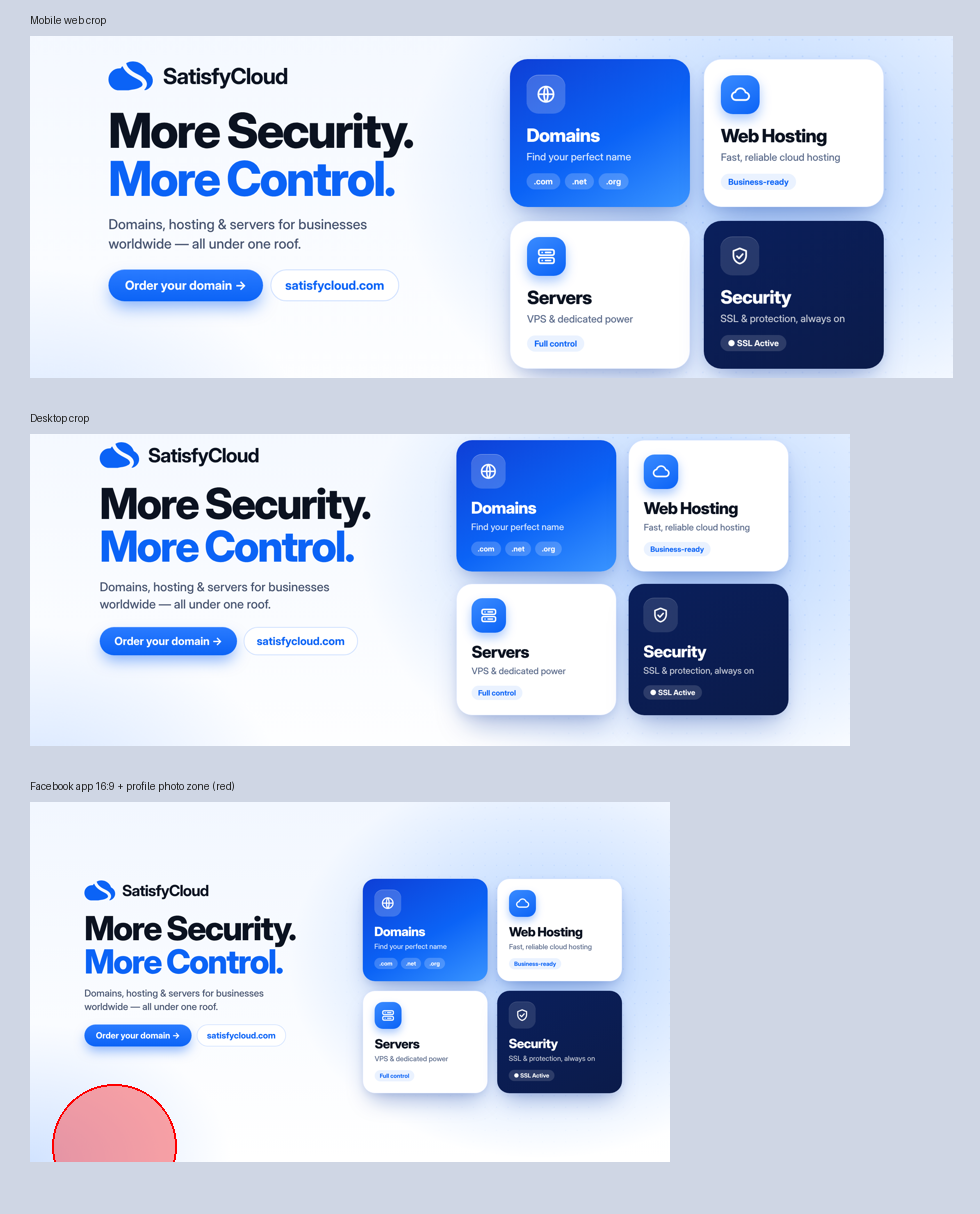
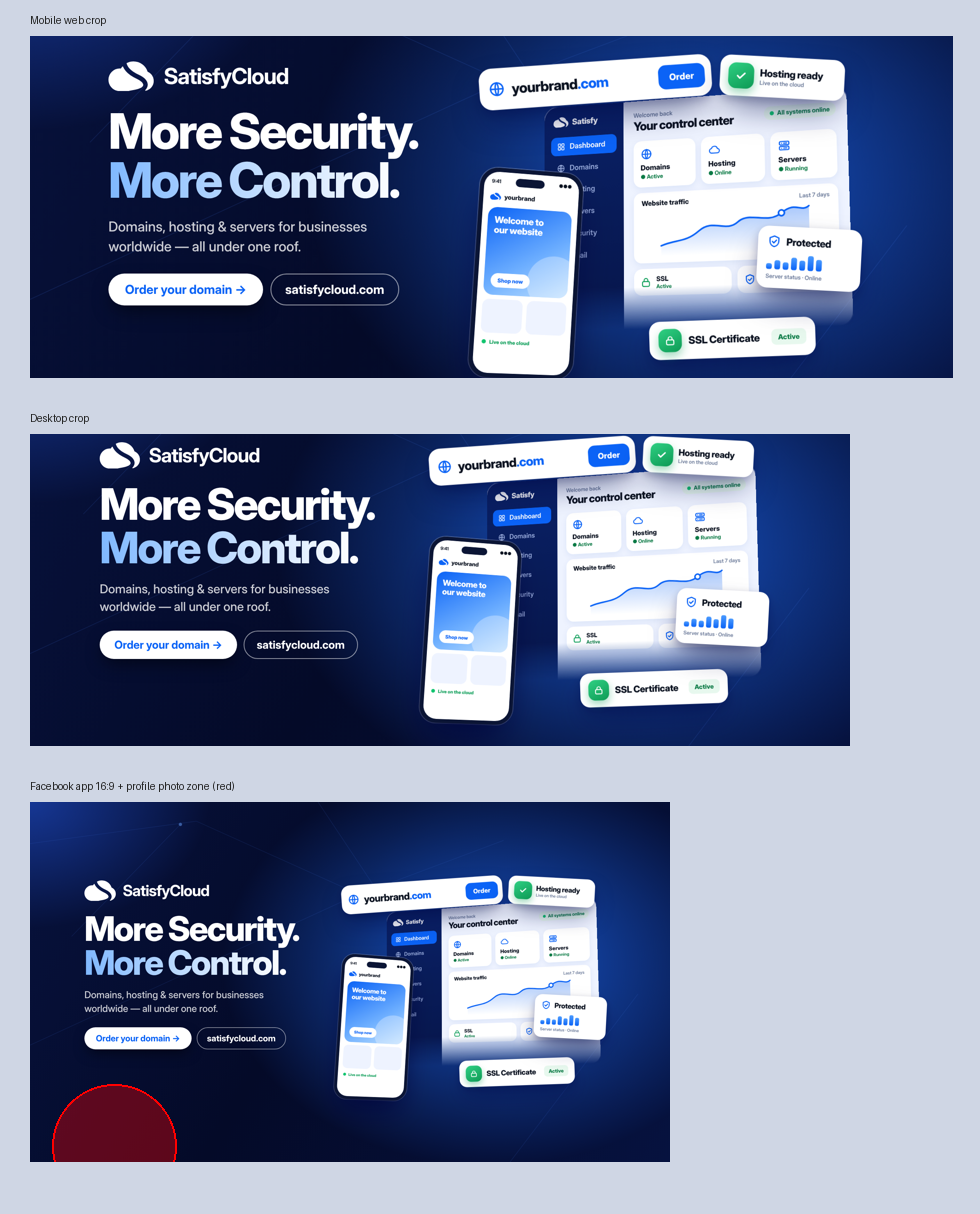
Cover: cinematic dark 3D dashboard scene; post: all-services orbit design
Claude-Session: https://claude.ai/code/session_01HRGDra9WXwvMnTFnzRxiJG

diff --git a/satisfycloud/social/make6.py b/satisfycloud/social/make6.py
@@ -1,0 +1,97 @@
+import re, math
+from playwright.sync_api import sync_playwright
+Dw=open("../dist/svg/mark-tight_white.svg").read(); D=re.search(r' d="([^"]+)"',Dw)[1]
+MW,MH=[int(x) for x in re.search(r'viewBox="0 0 (\d+) (\d+)"',Dw).groups()]
+def mark(w,c="#0B63F6"): return f'<svg viewBox="0 0 {MW} {MH}" width="{w}" height="{w*MH/MW:.1f}"><path fill="{c}" d="{D}"/></svg>'
+def ic(p,c="#fff",s=30,w=2.1): return f'<svg width="{s}" height="{s}" viewBox="0 0 24 24" fill="none" stroke="{c}" stroke-width="{w}" stroke-linecap="round" stroke-linejoin="round">{p}</svg>'
+P=dict(
+globe='<circle cx="12" cy="12" r="9"/><path d="M3 12h18M12 3c3 3.2 3 14.8 0 18M12 3c-3 3.2-3 14.8 0 18"/>',
+server='<rect x="3" y="4" width="18" height="6.5" rx="2"/><rect x="3" y="13.5" width="18" height="6.5" rx="2"/><path d="M7 7.25h.01M7 16.75h.01M11 7.25h6M11 16.75h6"/>',
+shield='<path d="M12 3l7.5 3v5.5c0 4.6-3.1 8.2-7.5 9.5-4.4-1.3-7.5-4.9-7.5-9.5V6z"/><path d="M8.6 12.2l2.5 2.5 4.4-4.9"/>',
+cloud='<path d="M7 18a4.5 4.5 0 0 1-.6-8.96A6 6 0 0 1 18 9.5a4.2 4.2 0 0 1-.5 8.5z"/>',
+lock='<rect x="4.5" y="10.5" width="15" height="10" rx="2.5"/><path d="M8 10.5V8a4 4 0 0 1 8 0v2.5"/>',
+search='<circle cx="11" cy="11" r="6.5"/><path d="M20 20l-4.2-4.2"/>',
+check='<path d="M5 12.5l4.5 4.5L19 7.5"/>',
+db='<ellipse cx="12" cy="6" rx="7.5" ry="3"/><path d="M4.5 6v6c0 1.7 3.4 3 7.5 3s7.5-1.3 7.5-3V6M4.5 12v6c0 1.7 3.4 3 7.5 3s7.5-1.3 7.5-3v-6"/>',
+grid='<rect x="3.5" y="3.5" width="7" height="7" rx="1.5"/><rect x="13.5" y="3.5" width="7" height="7" rx="1.5"/><rect x="3.5" y="13.5" width="7" height="7" rx="1.5"/><rect x="13.5" y="13.5" width="7" height="7" rx="1.5"/>',
+mail='<rect x="3" y="5" width="18" height="14" rx="2.5"/><path d="M3.5 7l8.5 6 8.5-6"/>')
+IC=lambda k,c="#fff",s=30,w=2.1: ic(P[k],c,s,w)
+CSS="""*{margin:0;box-sizing:border-box}body{font-family:'Inter Display','Inter',Arial,sans-serif;color:#0B1220;background:#fff}
+.pill{display:inline-flex;align-items:center;gap:14px;font-weight:700;border-radius:999px}
+.fl{position:absolute;background:#fff;border-radius:26px;box-shadow:0 40px 80px -20px rgba(0,10,70,.65),0 10px 24px rgba(0,10,70,.25);}
+.ibx{width:62px;height:62px;border-radius:19px;display:flex;align-items:center;justify-content:center;background:linear-gradient(150deg,#3a8bff,#0B63F6);box-shadow:0 10px 22px rgba(11,99,246,.4)}
+.ibx.g{background:linear-gradient(150deg,#2fd083,#0e9a55);box-shadow:0 10px 22px rgba(18,160,92,.4)}
+.sb{display:flex;align-items:center;gap:12px;padding:12px 16px;border-radius:14px;font-size:19px;font-weight:600;color:#9db0e0}
+.sb.on{background:#0B63F6;color:#fff}
+.stat{background:#fff;border-radius:20px;padding:18px 18px;box-shadow:0 6px 18px rgba(11,60,160,.08)}
+.dot{display:inline-block;width:10px;height:10px;border-radius:50%;background:#12c46f;margin-right:8px}"""
+def dashboard():
+    chart='<svg viewBox="0 0 360 120" width="100%" height="120"><defs><linearGradient id="ar" x1="0" y1="0" x2="0" y2="1"><stop offset="0" stop-color="#0B63F6" stop-opacity=".35"/><stop offset="1" stop-color="#0B63F6" stop-opacity="0"/></linearGradient></defs><path d="M0 95 C40 80 60 90 95 62 S160 70 190 45 S260 55 295 28 S340 30 360 14 V120 H0z" fill="url(#ar)"/><path d="M0 95 C40 80 60 90 95 62 S160 70 190 45 S260 55 295 28 S340 30 360 14" fill="none" stroke="#0B63F6" stroke-width="4" stroke-linecap="round"/><circle cx="295" cy="28" r="7" fill="#fff" stroke="#0B63F6" stroke-width="4"/></svg>'
+    return f'''<div style="position:absolute;left:0;top:0;width:760px;height:560px;border-radius:34px;overflow:hidden;background:#eef3ff;display:flex;box-shadow:0 60px 120px -20px rgba(0,5,60,.8),0 0 0 2px rgba(255,255,255,.35)">
+ <div style="width:210px;background:linear-gradient(180deg,#0a2166,#06154a);padding:26px 18px;display:flex;flex-direction:column;gap:8px">
+  <div style="display:flex;align-items:center;gap:10px;margin-bottom:18px;padding-left:6px">{mark(40,"#fff")}<span style="color:#fff;font-weight:800;font-size:21px;letter-spacing:-.5px">Satisfy</span></div>
+  <div class="sb on">{IC("grid","#fff",22)}Dashboard</div><div class="sb">{IC("globe","#9db0e0",22)}Domains</div><div class="sb">{IC("cloud","#9db0e0",22)}Hosting</div><div class="sb">{IC("server","#9db0e0",22)}Servers</div><div class="sb">{IC("shield","#9db0e0",22)}Security</div><div class="sb">{IC("mail","#9db0e0",22)}Email</div></div>
+ <div style="flex:1;padding:26px 26px">
+  <div style="display:flex;justify-content:space-between;align-items:center"><div><div style="font-size:15px;color:#6b7a99;font-weight:600">Welcome back</div><div style="font-size:30px;font-weight:800;letter-spacing:-1px">Your control center</div></div><span style="background:#e7f8ee;color:#0b7a45;font-weight:700;font-size:15px;border-radius:999px;padding:7px 14px"><span class="dot"></span>All systems online</span></div>
+  <div style="display:flex;gap:14px;margin-top:20px">
+   <div class="stat" style="flex:1">{IC("globe","#0B63F6",30)}<div style="font-size:18px;font-weight:800;margin-top:8px">Domains</div><div style="font-size:14px;color:#0b7a45;font-weight:700;margin-top:3px">● Active</div></div>
+   <div class="stat" style="flex:1">{IC("cloud","#0B63F6",30)}<div style="font-size:18px;font-weight:800;margin-top:8px">Hosting</div><div style="font-size:14px;color:#0b7a45;font-weight:700;margin-top:3px">● Online</div></div>
+   <div class="stat" style="flex:1">{IC("server","#0B63F6",30)}<div style="font-size:18px;font-weight:800;margin-top:8px">Servers</div><div style="font-size:14px;color:#0b7a45;font-weight:700;margin-top:3px">● Running</div></div></div>
+  <div class="stat" style="margin-top:14px;padding:16px 20px"><div style="display:flex;justify-content:space-between;font-size:17px;font-weight:800"><span>Website traffic</span><span style="color:#6b7a99;font-weight:600;font-size:14px">Last 7 days</span></div>{chart}</div>
+  <div style="display:flex;gap:14px;margin-top:14px"><div class="stat" style="flex:1;display:flex;align-items:center;gap:12px;padding:14px 16px">{IC("lock","#12a05c",28)}<div><div style="font-size:16px;font-weight:800">SSL</div><div style="font-size:13px;color:#0b7a45;font-weight:700">Active</div></div></div><div class="stat" style="flex:1;display:flex;align-items:center;gap:12px;padding:14px 16px">{IC("shield","#0B63F6",28)}<div><div style="font-size:16px;font-weight:800">Firewall</div><div style="font-size:13px;color:#0b7a45;font-weight:700">On</div></div></div></div>
+ </div></div>'''
+def phone():
+    return f'''<div style="position:absolute;left:0;top:0;width:250px;height:500px;border-radius:44px;background:#0b1535;padding:10px;box-shadow:0 50px 90px -20px rgba(0,5,60,.85),0 0 0 2px rgba(255,255,255,.25)">
+<div style="width:100%;height:100%;border-radius:36px;background:#fff;overflow:hidden;position:relative">
+ <div style="height:44px;display:flex;justify-content:space-between;align-items:center;padding:0 18px;font-size:12px;font-weight:700;color:#0B1220"><span>9:41</span><span style="width:70px;height:20px;border-radius:12px;background:#0b1535;display:block;margin-top:2px"></span><span>●●●</span></div>
+ <div style="padding:6px 16px;display:flex;align-items:center;gap:8px;font-size:15px;font-weight:800">{mark(26)}yourbrand</div>
+ <div style="margin:10px 14px;border-radius:22px;height:210px;background:linear-gradient(150deg,#0B63F6,#6fb0ff 60%,#bfe0ff);position:relative;overflow:hidden"><div style="position:absolute;left:16px;top:18px;color:#fff;font-size:22px;font-weight:800;line-height:1.1;letter-spacing:-.5px">Welcome to<br>our website</div><div style="position:absolute;left:16px;bottom:18px;background:#fff;color:#0B63F6;font-weight:800;font-size:13px;padding:9px 16px;border-radius:999px">Shop now</div><div style="position:absolute;right:-30px;bottom:-30px;width:130px;height:130px;border-radius:50%;background:rgba(255,255,255,.3)"></div></div>
+ <div style="margin:0 14px;display:flex;gap:10px"><div style="flex:1;height:80px;border-radius:16px;background:#eef3ff"></div><div style="flex:1;height:80px;border-radius:16px;background:#eef3ff"></div></div>
+ <div style="margin:14px 18px;font-size:12px;color:#12a05c;font-weight:800"><span class="dot"></span>Live on the cloud</div></div></div>'''
+cover=f"""<html><style>{CSS}
+.bg{{position:absolute;inset:0;background:radial-gradient(60% 80% at 72% 45%,rgba(30,110,255,.75) 0%,rgba(10,50,200,0) 70%),radial-gradient(40% 50% at 0% 0%,rgba(40,100,255,.45) 0%,rgba(40,100,255,0) 70%),linear-gradient(120deg,#07123d 0%,#040a28 45%,#06123f 100%)}}
+.lines{{position:absolute;inset:0;opacity:.5}}</style>
+<body style="width:2000px;height:1125px;position:relative;overflow:hidden;background:#040a28"><div class="bg"></div>
+<svg class="lines" width="2000" height="1125" fill="none" stroke="#4d86ff" stroke-opacity=".28" stroke-width="1.6"><path d="M0 130 L520 60 L1120 330"/><path d="M130 420 L470 70"/><path d="M0 760 L1000 300 L1480 120"/><path d="M900 0 L1260 540"/><path d="M1500 1125 L1900 600"/><circle cx="470" cy="70" r="5" fill="#6aa4ff"/><circle cx="1120" cy="330" r="5" fill="#6aa4ff"/></svg>
+<div style="position:absolute;left:170px;top:245px;width:820px;color:#fff">
+ <div style="display:flex;align-items:center;gap:22px">{mark(98,"#fff")}<span style="font-size:48px;font-weight:700;letter-spacing:-1.5px">SatisfyCloud</span></div>
+ <div style="font-size:106px;line-height:1;font-weight:800;letter-spacing:-4.4px;margin-top:34px">More Security.<br><span style="background:linear-gradient(90deg,#7fb8ff,#fff);-webkit-background-clip:text;color:transparent">More Control.</span></div>
+ <div style="font-size:30px;line-height:1.45;color:rgba(255,255,255,.8);margin-top:26px;font-weight:500;max-width:690px">Domains, hosting &amp; servers for businesses worldwide — all under one roof.</div>
+ <div style="margin-top:36px;display:flex;gap:16px"><span class="pill" style="font-size:27px;padding:18px 36px;background:#fff;color:#0B63F6;box-shadow:0 18px 40px -8px rgba(0,0,0,.5)">Order your domain →</span><span class="pill" style="font-size:27px;padding:16px 30px;border:2px solid rgba(255,255,255,.55);color:#fff">satisfycloud.com</span></div>
+</div>
+<div style="position:absolute;left:955px;top:182px;width:960px;height:900px;perspective:2600px;transform:scale(.9);transform-origin:0 0">
+ <div style="position:absolute;left:150px;top:150px;width:760px;height:560px;transform:rotateY(-16deg) rotateX(7deg) rotateZ(-2.5deg);transform-style:preserve-3d;-webkit-mask-image:linear-gradient(180deg,#000 0%,#000 82%,transparent 100%);mask-image:linear-gradient(180deg,#000 0%,#000 82%,transparent 100%)">{dashboard()}</div>
+ <div style="position:absolute;left:10px;top:330px;width:250px;height:500px;transform:rotateY(14deg) rotateZ(4deg) rotateX(4deg)">{phone()}</div>
+ <div class="fl" style="left:20px;top:70px;width:560px;height:100px;border-radius:30px;display:flex;align-items:center;padding:0 16px 0 22px;gap:16px;transform:rotate(-4deg)">{IC("globe","#0B63F6",40)}<div style="flex:1;font-size:34px;font-weight:800;letter-spacing:-1px">yourbrand<span style="color:#0B63F6">.com</span></div><span style="background:#0B63F6;color:#fff;font-weight:800;font-size:22px;border-radius:18px;padding:16px 26px">Order</span></div>
+ <div class="fl" style="left:600px;top:60px;width:300px;padding:18px 20px;display:flex;gap:14px;align-items:center;transform:rotate(3deg)"><span class="ibx g">{IC("check","#fff",30,3)}</span><div><div style="font-size:24px;font-weight:800;letter-spacing:-.6px">Hosting ready</div><div style="font-size:14px;color:#6b7a99;font-weight:600">Live on the cloud</div></div></div>
+ <div class="fl" style="left:430px;top:690px;width:400px;padding:18px 22px;display:flex;gap:16px;align-items:center;transform:rotate(-2deg)"><span class="ibx g" style="width:56px;height:56px">{IC("lock","#fff",28)}</span><div style="flex:1;font-size:25px;font-weight:800;letter-spacing:-.6px">SSL Certificate</div><span style="background:#e7f8ee;color:#0b7a45;font-weight:800;font-size:17px;border-radius:12px;padding:9px 16px">Active</span></div>
+ <div class="fl" style="left:690px;top:470px;width:250px;padding:20px 22px;transform:rotate(3deg)"><div style="display:flex;align-items:center;gap:12px">{IC("shield","#0B63F6",34)}<div style="font-size:24px;font-weight:800;letter-spacing:-.6px">Protected</div></div><div style="display:flex;gap:6px;margin-top:14px;align-items:flex-end;height:36px">{"".join(f'<i style="width:14px;border-radius:5px;background:linear-gradient(180deg,#4b9bff,#0B63F6);height:{h}px"></i>' for h in (14,22,18,30,24,36,28))}</div><div style="font-size:14px;color:#6b7a99;font-weight:600;margin-top:8px">Server status · Online</div></div>
+</div></body></html>"""
+open("cover.html","w").write(cover)
+def chip(x,y,icon,t,sub,g=False):
+    return f'<div style="position:absolute;left:{x}px;top:{y}px;transform:translate(-50%,-50%);display:flex;align-items:center;gap:14px;background:rgba(255,255,255,.92);border:1.5px solid #fff;border-radius:24px;padding:12px 24px 12px 12px;box-shadow:0 26px 50px -16px rgba(10,50,150,.4),0 6px 14px rgba(10,50,150,.10);white-space:nowrap"><span class="ibx {"g" if g else ""}" style="width:54px;height:54px;border-radius:17px">{IC(icon,"#fff",28)}</span><span><b style="font-size:25px;font-weight:800;letter-spacing:-.6px;display:block">{t}</b><i style="font-style:normal;font-size:15px;color:#5f6f8f;font-weight:600">{sub}</i></span></div>'
+cx,cy,cw=540,722,330
+chm=[(190,575,"globe","Domains","Register yours"),(160,722,"cloud","Web Hosting","Fast & reliable"),(190,869,"server","Servers","VPS & dedicated"),(890,575,"lock","SSL Secured","Always active"),(920,722,"shield","Firewall On","Protected"),(890,869,"db","Auto Backups","Every day")]
+lines="".join(f'<line x1="{cx}" y1="{cy}" x2="{x}" y2="{y}" stroke="#0B63F6" stroke-opacity=".3" stroke-width="2" stroke-dasharray="2 8" stroke-linecap="round"/><circle cx="{x}" cy="{y}" r="6" fill="#0B63F6"/>' for x,y,*_ in chm)
+rings="".join(f'<circle cx="{cx}" cy="{cy}" r="{r}" fill="none" stroke="#0B63F6" stroke-opacity="{o}" stroke-width="2" {d}/>' for r,o,d in [(520,.10,'stroke-dasharray="3 10"'),(400,.16,''),(280,.2,'stroke-dasharray="2 9"')])
+mh=cw*MH/MW;sc=cw/MW
+post=f"""<html><style>{CSS}</style><body style="width:1080px;height:1080px;position:relative;overflow:hidden;background:#fff">
+<div style="position:absolute;inset:0;background:radial-gradient(60% 50% at 50% 66%,rgba(110,170,255,.55) 0%,rgba(110,170,255,0) 72%),linear-gradient(180deg,#f2f7ff 0%,#fff 100%)"></div>
+<svg width="1080" height="1080" style="position:absolute;inset:0"><defs><radialGradient id="gl"><stop offset="0" stop-color="#5aa0ff" stop-opacity=".6"/><stop offset="1" stop-color="#5aa0ff" stop-opacity="0"/></radialGradient>
+<linearGradient id="cg" x1="0" y1="0" x2="1" y2="1"><stop offset="0" stop-color="#4b9bff"/><stop offset=".45" stop-color="#0B63F6"/><stop offset="1" stop-color="#0636bf"/></linearGradient>
+<linearGradient id="sh" x1="0" y1="0" x2="0" y2="1"><stop offset="0" stop-color="#fff" stop-opacity=".55"/><stop offset=".5" stop-color="#fff" stop-opacity="0"/></linearGradient>
+<filter id="bl" x="-50%" y="-300%" width="200%" height="700%"><feGaussianBlur stdDeviation="22"/></filter></defs>
+{rings}<circle cx="{cx}" cy="{cy}" r="250" fill="url(#gl)"/>{lines}
+<ellipse cx="{cx}" cy="{cy+mh/2+18}" rx="{cw*.4}" ry="20" fill="#0B3FC0" opacity=".45" filter="url(#bl)"/>
+<g transform="translate({cx-cw/2},{cy-mh/2}) scale({sc})"><path d="{D}" fill="url(#cg)"/><path d="{D}" fill="url(#sh)"/></g></svg>
+<div style="position:absolute;left:0;right:0;top:58px;display:flex;justify-content:center;align-items:center;gap:16px">{mark(70)}<span style="font-size:34px;font-weight:700;letter-spacing:-1px">SatisfyCloud</span></div>
+<div style="position:absolute;left:0;right:0;top:160px;text-align:center"><span style="display:inline-block;background:#fff;color:#0B63F6;font-weight:800;font-size:20px;letter-spacing:1px;border-radius:999px;padding:9px 22px;box-shadow:0 10px 26px rgba(11,99,246,.18)">ALL-IN-ONE CLOUD · WORLDWIDE</span>
+<div style="font-size:82px;line-height:1;font-weight:800;letter-spacing:-3.3px;margin-top:20px">Your idea. Your domain.<br><span style="color:#0B63F6">Your cloud.</span></div></div>
+{"".join(chip(*c,g=False) for c in chm)}
+<div style="position:absolute;left:0;right:0;bottom:44px;display:flex;justify-content:center"><span class="pill" style="font-size:31px;padding:17px 44px;background:linear-gradient(180deg,#2a7bff,#0B63F6);color:#fff;box-shadow:0 18px 36px -6px rgba(11,99,246,.5)">satisfycloud.com →</span></div>
+</body></html>"""
+open("post.html","w").write(post)
+CH='/opt/pw-browsers/chromium-1243/chrome-linux64/chrome'
+with sync_playwright() as pw:
+    br=pw.chromium.launch(executable_path=CH,args=['--no-sandbox'])
+    pg=br.new_page(viewport={"width":2000,"height":1125});pg.goto("file:///home/user/logo-design-skill/satisfycloud/social/cover.html");pg.wait_for_timeout(200);pg.screenshot(path="facebook-cover.png");pg.close();pg=br.new_page(viewport={"width":1080,"height":1080},device_scale_factor=2);pg.goto("file:///home/user/logo-design-skill/satisfycloud/social/post.html");pg.wait_for_timeout(200);pg.screenshot(path="facebook-post@2x.png");br.close()
